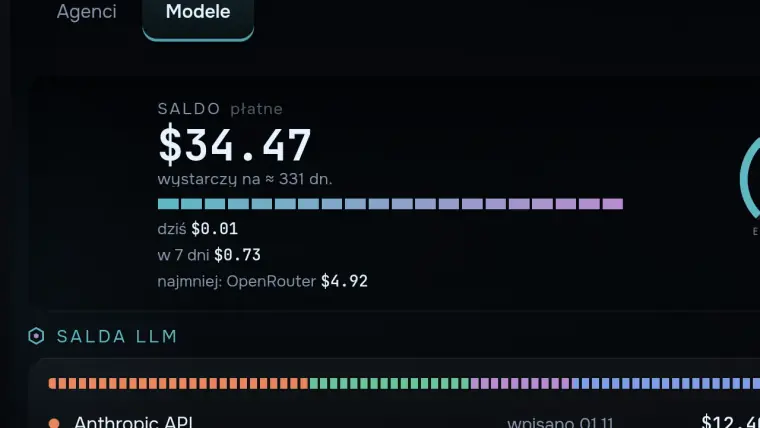
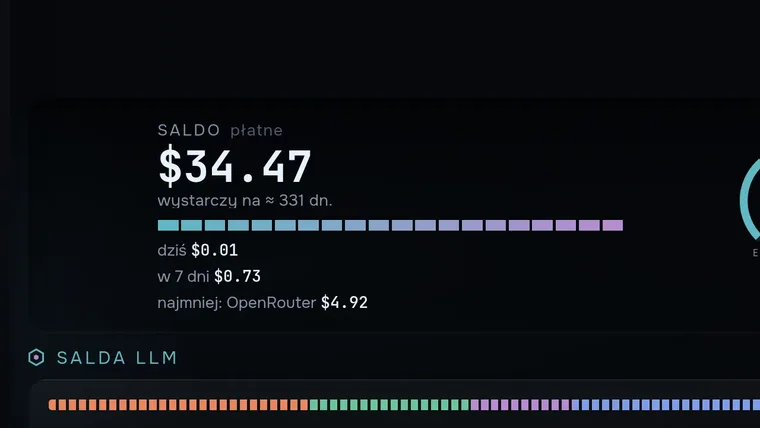
Panel operacyjny: okładka niżej o 36 px, bez urwanej zakładki; «SALDO» nie styka się z etykietą na telefonie
Kind: feat

diff --git a/tools/panel-demo/README.md b/tools/panel-demo/README.md
@@ -22,6 +22,8 @@ z wariantami, dziennik decyzji z wynikami, dwie sesje Claude i limity. Zrzuty sa
 
 Okładka karty „Panel operacyjny” (16:9): wycinek 1280×720 ze zrzutu `/ai-router` w 2x (`DSF=2 python final.py … modele`),
 od punktu (190, 192): saldo poniżej etykiety kategorii karty także na telefonie (karta 2:1 ucina górę). WebP (jakość 82) do `public/img/projekty/panel-okladka.webp`.
+20.11.2026: kadr przesunięty o 36 px w dół, górne 152 px wypełnione rozciągniętym wierszem y=152 (bez urwanej zakładki „Modele”),
+żeby „SALDO” nie stykało się z etykietą na telefonie; wersja karty 760×428 (`public/img/karta/`) z tego samego obrazu.
 
 Okładka karty „Agenci AI” (16:9): wycinek ze zrzutu `/agenty` w 2x (`DSF=2 python final.py … <katalog>`) bez nagłówka
 „AGENTÓW” (pod etykietą kategorii na telefonie): obecny plik to stary kadr 1280×720 od y=72, 1152×648 → 1280×720,
